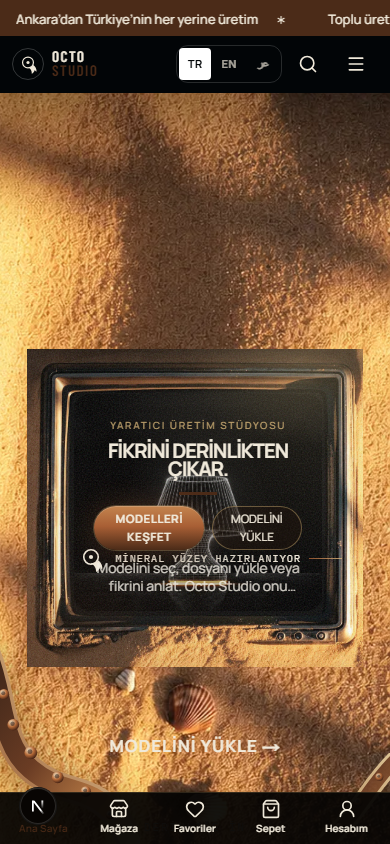
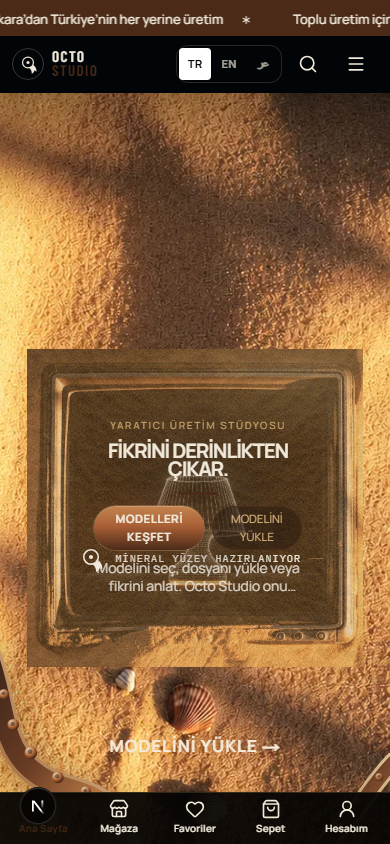
Bind the seamless sand field still to the hero brush.
The WebGL overlay now samples the 2048 texture with repeat wrap and mipmaps, so piles come from the photograph instead of a procedural palette.

Changed region(s): [[0.0615, 0.4005, 0.9538, 0.8009], [0.0, 0.0, 0.6769, 0.0308], [0.7077, 0.0, 1.0, 0.0308]]

diff --git a/src/lib/hero-sand/engine.ts b/src/lib/hero-sand/engine.ts
@@ -51,37 +51,13 @@ out vec4 fragColor;
 uniform sampler2D uState;
 uniform sampler2D uAlbedo;
 uniform float uHasAlbedo;
-uniform vec2 uResolution;
+uniform vec2 uRepeat;
 uniform vec2 uTexel;
 uniform vec4 uScreen;
 uniform float uRadius;
 
 vec2 decode(vec2 packed) {
   return (packed - 0.5) * 0.46;
-}
-
-float hash(vec2 p) {
-  return fract(sin(dot(p, vec2(127.1, 311.7))) * 43758.5453);
-}
-
-float noise(vec2 p) {
-  vec2 i = floor(p);
-  vec2 f = fract(p);
-  float a = hash(i);
-  float b = hash(i + vec2(1.0, 0.0));
-  float c = hash(i + vec2(0.0, 1.0));
-  float d = hash(i + vec2(1.0, 1.0));
-  vec2 u = f * f * (3.0 - 2.0 * f);
-  return mix(mix(a, b, u.x), mix(c, d, u.x), u.y);
-}
-
-float fbm(vec2 p) {
-  float v = 0.0;
-  v += noise(p) * 0.52;
-  v += noise(p * 2.13) * 0.26;
-  v += noise(p * 4.27) * 0.14;
-  v += noise(p * 8.71) * 0.08;
-  return v;
 }
 
 float sdRoundBox(vec2 p, vec2 b, float r) {
@@ -93,31 +69,13 @@ float screenWindow(vec2 cssUv) {
   vec2 center = uScreen.xy + uScreen.zw * 0.5;
   vec2 halfSize = uScreen.zw * 0.5;
   float d = sdRoundBox(cssUv - center, halfSize, uRadius * min(uScreen.z, uScreen.w));
-  return 1.0 - smoothstep(-0.008, 0.016, d);
-}
-
-vec3 mineralSand(vec2 uv, float aspect) {
-  vec2 p = uv * vec2(aspect, 1.0);
-  float n = fbm(p * 38.0);
-  float dune = fbm(p * 7.5 + 4.2);
-  float fine = noise(p * 190.0);
-  float silica = pow(noise(p * 430.0 + dune), 11.0);
-  float mica = pow(noise(p * 780.0), 16.0);
-  vec3 umber = vec3(0.48, 0.29, 0.15);
-  vec3 ochre = vec3(0.76, 0.55, 0.31);
-  vec3 honey = vec3(0.91, 0.74, 0.47);
-  vec3 sun = vec3(0.97, 0.88, 0.68);
-  vec3 color = mix(umber, ochre, smoothstep(0.18, 0.62, n));
-  color = mix(color, honey, smoothstep(0.48, 0.86, dune) * 0.72);
-  color = mix(color, sun, silica * 0.38 + mica * 0.22);
-  color *= 0.9 + fine * 0.18;
-  return color;
+  return 1.0 - smoothstep(-0.004, 0.01, d);
 }
 
 void main() {
   vec2 cssUv = vec2(vUv.x, 1.0 - vUv.y);
   float aperture = screenWindow(cssUv);
-  if (aperture > 0.985) {
+  if (aperture > 0.82 || uHasAlbedo < 0.5) {
     fragColor = vec4(0.0);
     return;
   }
@@ -128,26 +86,15 @@ void main() {
   float hL = length(decode(texture(uState, vUv - vec2(uTexel.x, 0.0)).xy));
   float hU = length(decode(texture(uState, vUv + vec2(0.0, uTexel.y)).xy));
   float hD = length(decode(texture(uState, vUv - vec2(0.0, uTexel.y)).xy));
-  vec3 normal = normalize(vec3((hL - hR) * 28.0, (hD - hU) * 28.0, 1.0));
-  vec3 light = normalize(vec3(0.72, 0.48, 0.48));
-  float ndl = clamp(dot(normal, light), 0.0, 1.0);
+  vec3 normal = normalize(vec3((hL - hR) * 26.0, (hD - hU) * 26.0, 1.0));
+  float ndl = clamp(dot(normal, normalize(vec3(0.72, 0.48, 0.48))), 0.0, 1.0);
 
-  vec2 warp = disp * 2.55;
-  vec2 sampleUv = clamp(vUv + warp, 0.0, 1.0);
-  vec3 photo = texture(uAlbedo, sampleUv).rgb;
-  float aspect = uResolution.x / max(uResolution.y, 1.0);
-  vec3 procedural = mineralSand(cssUv + vec2(warp.x, -warp.y) * 0.55, aspect);
-  vec3 sand = mix(procedural, photo, uHasAlbedo * 0.88);
+  vec2 warp = disp * 2.6;
+  vec3 sand = texture(uAlbedo, vUv * uRepeat + warp).rgb;
+  sand *= mix(0.86, 1.12, ndl);
 
-  float lit = mix(0.7, 1.22, ndl);
-  sand *= lit;
-  sand += vec3(0.98, 0.86, 0.58) * pow(ndl, 6.0) * max(hC, 0.08) * 2.1;
-  sand -= vec3(0.24, 0.15, 0.07) * (1.0 - ndl) * max(hC, 0.05) * 1.8;
-
-  float piles = smoothstep(0.0008, 0.03, hC);
-  float dust = 0.2 + fbm(cssUv * 90.0) * 0.12;
-  float cover = mix(dust, 0.97, piles);
-  cover *= 1.0 - aperture;
+  float piles = smoothstep(0.001, 0.03, hC);
+  float cover = mix(0.07, 0.96, piles) * (1.0 - aperture);
   fragColor = vec4(sand * cover, cover);
 }`;
 
@@ -300,11 +247,12 @@ export class OctoSandEngine {
     const { gl } = this;
     gl.bindTexture(gl.TEXTURE_2D, this.albedo);
     gl.pixelStorei(gl.UNPACK_FLIP_Y_WEBGL, 1);
-    gl.texParameteri(gl.TEXTURE_2D, gl.TEXTURE_MIN_FILTER, gl.LINEAR);
+    gl.texParameteri(gl.TEXTURE_2D, gl.TEXTURE_WRAP_S, gl.REPEAT);
+    gl.texParameteri(gl.TEXTURE_2D, gl.TEXTURE_WRAP_T, gl.REPEAT);
+    gl.texParameteri(gl.TEXTURE_2D, gl.TEXTURE_MIN_FILTER, gl.LINEAR_MIPMAP_LINEAR);
     gl.texParameteri(gl.TEXTURE_2D, gl.TEXTURE_MAG_FILTER, gl.LINEAR);
-    gl.texParameteri(gl.TEXTURE_2D, gl.TEXTURE_WRAP_S, gl.CLAMP_TO_EDGE);
-    gl.texParameteri(gl.TEXTURE_2D, gl.TEXTURE_WRAP_T, gl.CLAMP_TO_EDGE);
     gl.texImage2D(gl.TEXTURE_2D, 0, gl.RGBA, gl.RGBA, gl.UNSIGNED_BYTE, image);
+    gl.generateMipmap(gl.TEXTURE_2D);
     gl.pixelStorei(gl.UNPACK_FLIP_Y_WEBGL, 0);
     this.hasAlbedo = 1;
   }
@@ -429,10 +377,11 @@ export class OctoSandEngine {
     gl.bindTexture(gl.TEXTURE_2D, this.albedo);
     gl.uniform1i(gl.getUniformLocation(this.draw, "uAlbedo"), 1);
     gl.uniform1f(gl.getUniformLocation(this.draw, "uHasAlbedo"), this.hasAlbedo);
+    const tile = Math.max(1, 580 * this.dpr);
     gl.uniform2f(
-      gl.getUniformLocation(this.draw, "uResolution"),
-      this.canvas.width,
-      this.canvas.height,
+      gl.getUniformLocation(this.draw, "uRepeat"),
+      this.canvas.width / tile,
+      this.canvas.height / tile,
     );
     gl.uniform2f(gl.getUniformLocation(this.draw, "uTexel"), 1 / this.grid, 1 / this.grid);
     gl.uniform4f(

diff --git a/src/components/home-industrial/octo-interactive-sand-hero.tsx b/src/components/home-industrial/octo-interactive-sand-hero.tsx
@@ -15,7 +15,7 @@ import {
   isHeroChrome,
   sandImpulseFromPointer,
 } from "@/lib/hero-sand/physics";
-import { readTvScreenFromStyles } from "@/lib/hero-sand/tv-screen";
+import { OCTO_SAND_FIELD, readTvScreenFromStyles } from "@/lib/hero-sand/tv-screen";
 
 type FallbackMode = "interactive" | "static-sand" | "poster" | "obsidian";
 
@@ -97,16 +97,18 @@ export function OctoInteractiveSandHero() {
         const next = new OctoSandEngine(canvas, grid, dpr);
         next.resize(host.clientWidth, host.clientHeight, dpr);
         const frame = canvas.closest(".octo-tv-frame") ?? host;
-        next.setScreen(readTvScreenFromStyles(getComputedStyle(frame)));
+        const hero = canvas.closest(".octo-tv-hero") ?? frame;
+        next.setScreen(readTvScreenFromStyles(getComputedStyle(hero)));
         const field = new Image();
         field.decoding = "async";
-        field.src = "/images/hero/octo-sand-field.webp";
         const bindField = () => {
           if (cancelled || field.naturalWidth < 1) return;
           next.setAlbedo(field);
         };
         field.addEventListener("load", bindField);
         unbindAlbedo = () => field.removeEventListener("load", bindField);
+        field.src = OCTO_SAND_FIELD;
+        if (field.complete) bindField();
         engineRef.current = next;
         setMode("interactive");
         setReady(true);
@@ -128,7 +130,8 @@ export function OctoInteractiveSandHero() {
         chooseSandDpr(window.devicePixelRatio, host.clientWidth),
       );
       const frame = canvas.closest(".octo-tv-frame") ?? host;
-      engineRef.current.setScreen(readTvScreenFromStyles(getComputedStyle(frame)));
+      const hero = canvas.closest(".octo-tv-hero") ?? frame;
+      engineRef.current.setScreen(readTvScreenFromStyles(getComputedStyle(hero)));
     };
     if (typeof IntersectionObserver !== "undefined") {
       observer = new IntersectionObserver(

diff --git a/src/components/home-industrial/octo-sand-hero.css b/src/components/home-industrial/octo-sand-hero.css
@@ -247,11 +247,15 @@
 }
 
 .octo-sand-static {
-  opacity: 0.28;
-  mix-blend-mode: soft-light;
-  background:
-    radial-gradient(ellipse at 82% 12%, rgb(236 210 150 / 0.42), transparent 48%),
-    radial-gradient(ellipse at 18% 86%, rgb(110 64 32 / 0.28), transparent 52%);
+  opacity: 0;
+  background-image: url("/images/hero/octo-sand-field.webp");
+  background-repeat: repeat;
+  background-size: 22rem 22rem;
+}
+
+.octo-sand-layer[data-octo-sand-mode="static-sand"] .octo-sand-static,
+.octo-sand-layer[data-octo-sand-mode="poster"] .octo-sand-static {
+  opacity: 0.38;
 }
 
 .octo-sand-layer[data-octo-sand-ready="true"][data-octo-sand-mode="interactive"] .octo-sand-static,

diff --git a/src/lib/hero-sand/tv-screen.ts b/src/lib/hero-sand/tv-screen.ts
@@ -9,6 +9,8 @@ export const OCTO_TV_SHELL = {
   mobile: "/images/hero/octo-tv-sand-shell-mobile.webp",
 } as const;
 
+export const OCTO_SAND_FIELD = "/images/hero/octo-sand-field.webp";
+
 /** Inner CRT glass after a 14px inset from the measured black walk. */
 export const OCTO_TV_SCREEN_PX = {
   left: 556,
